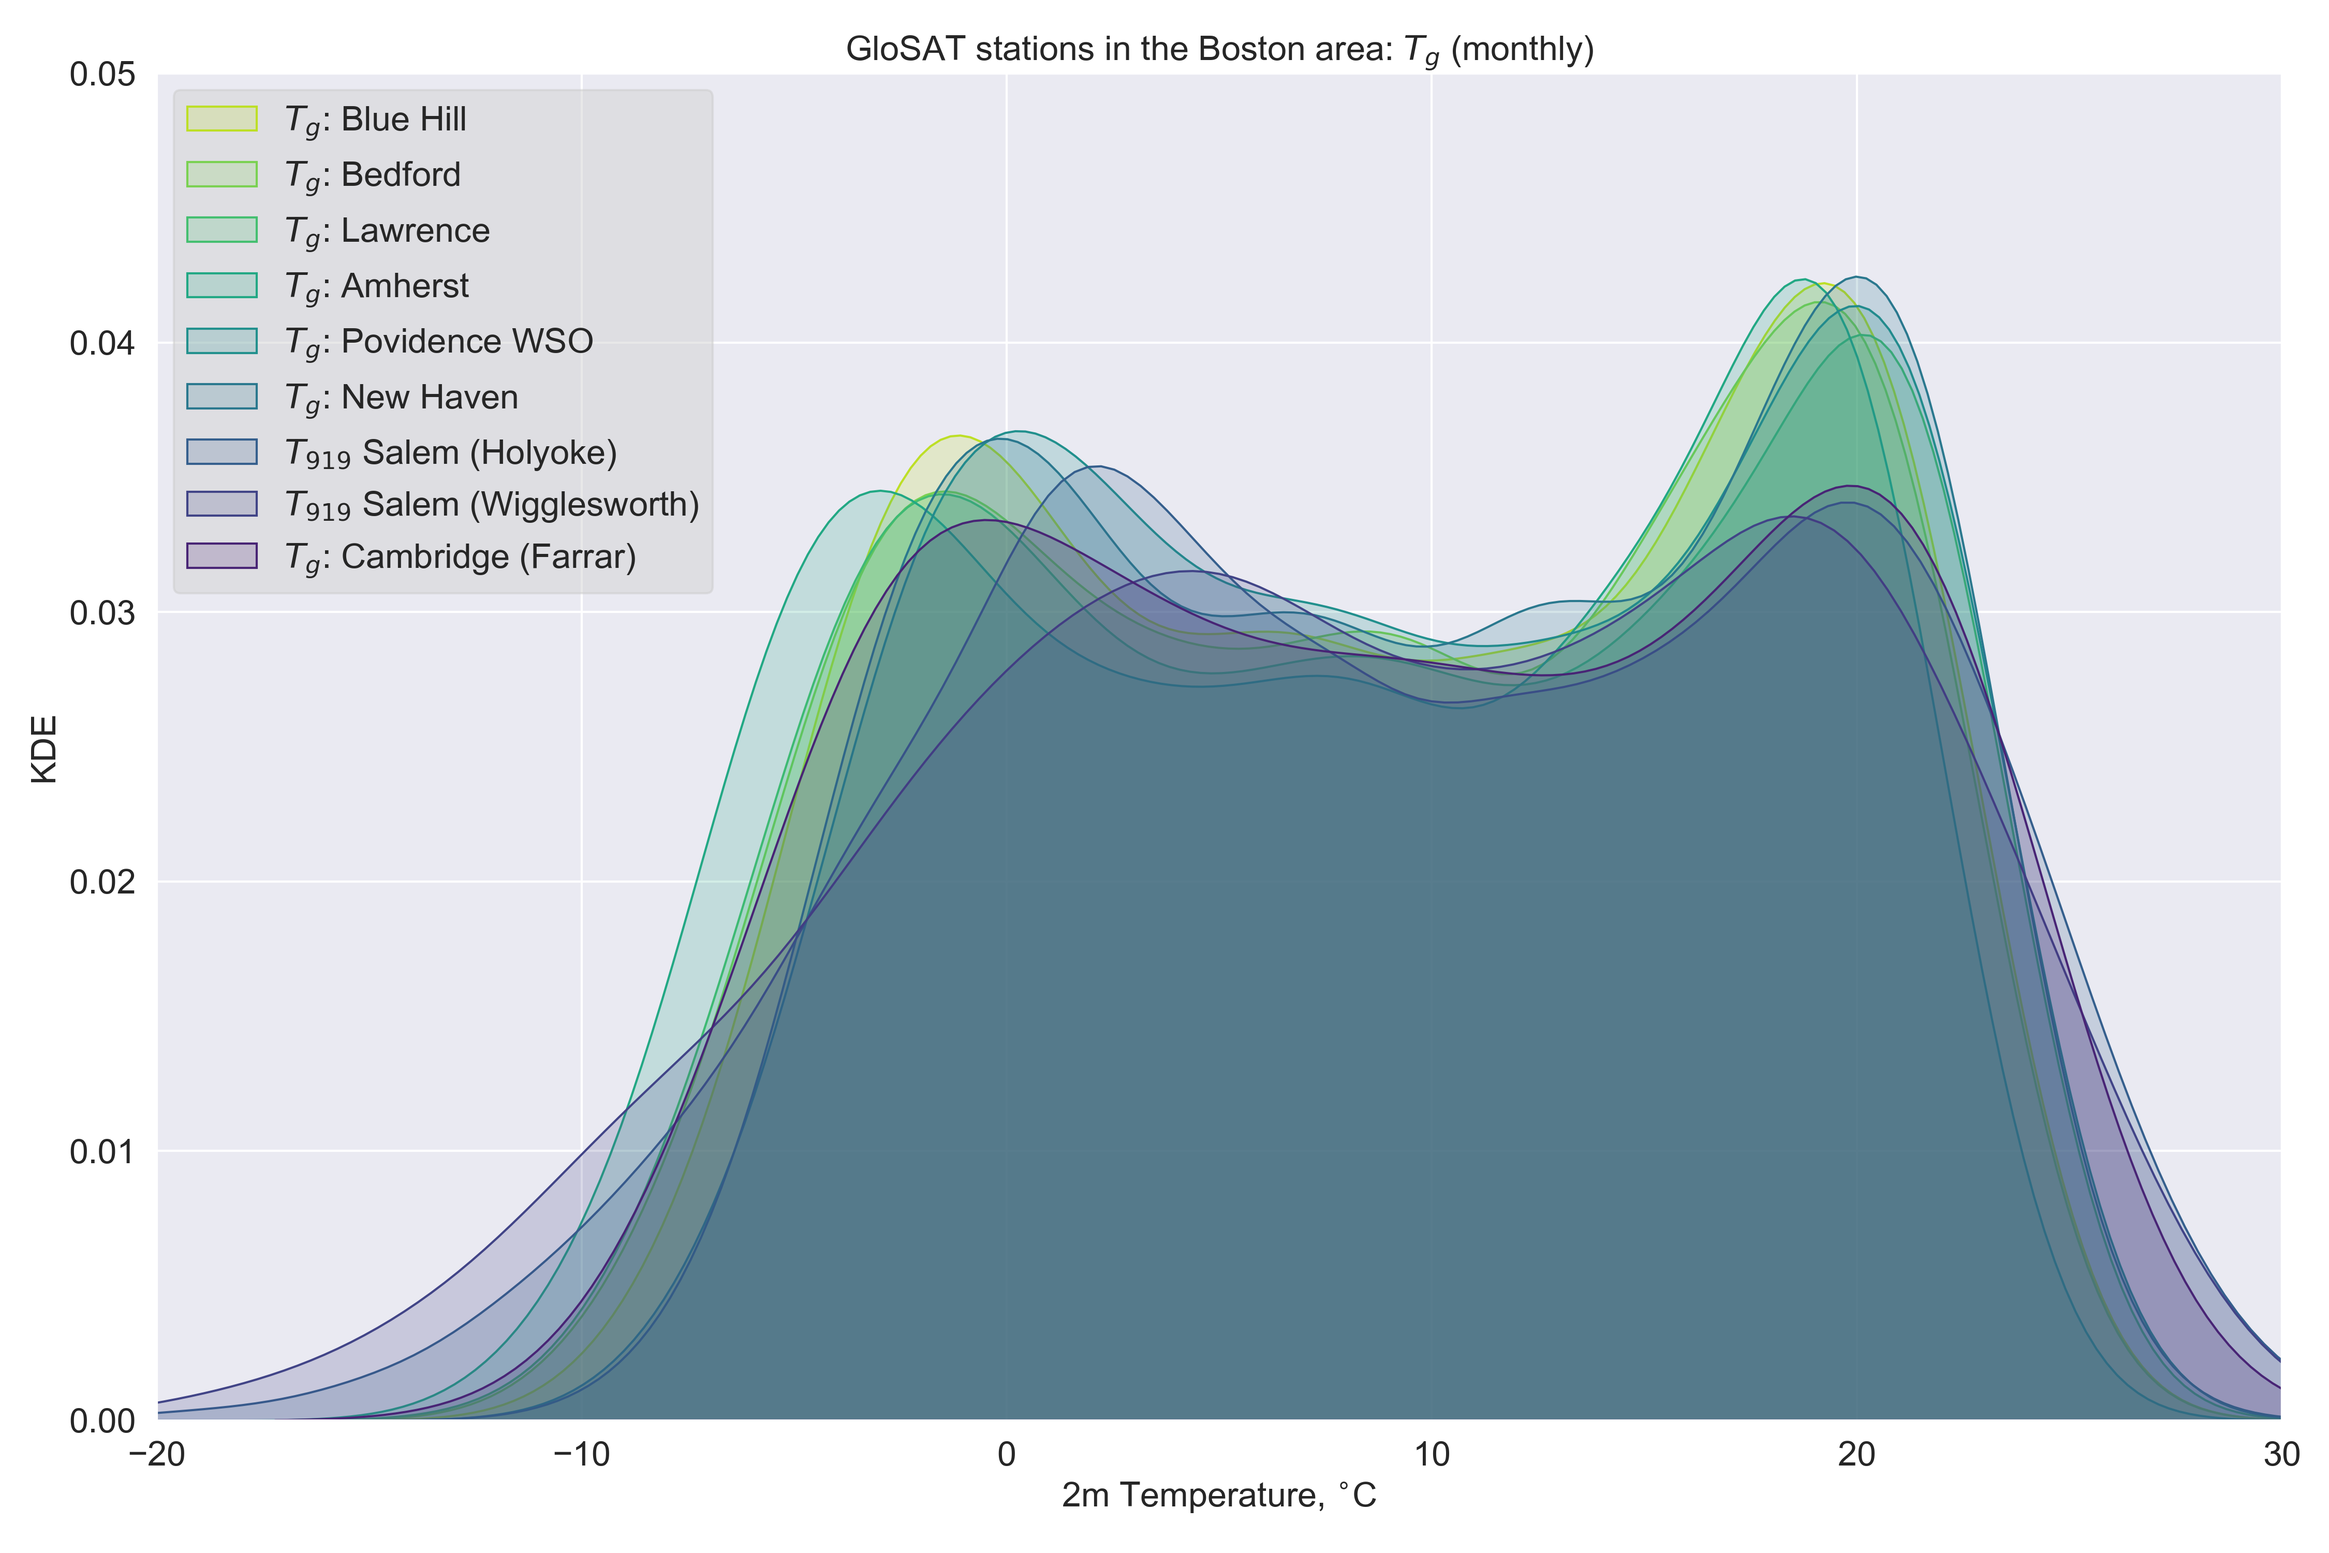
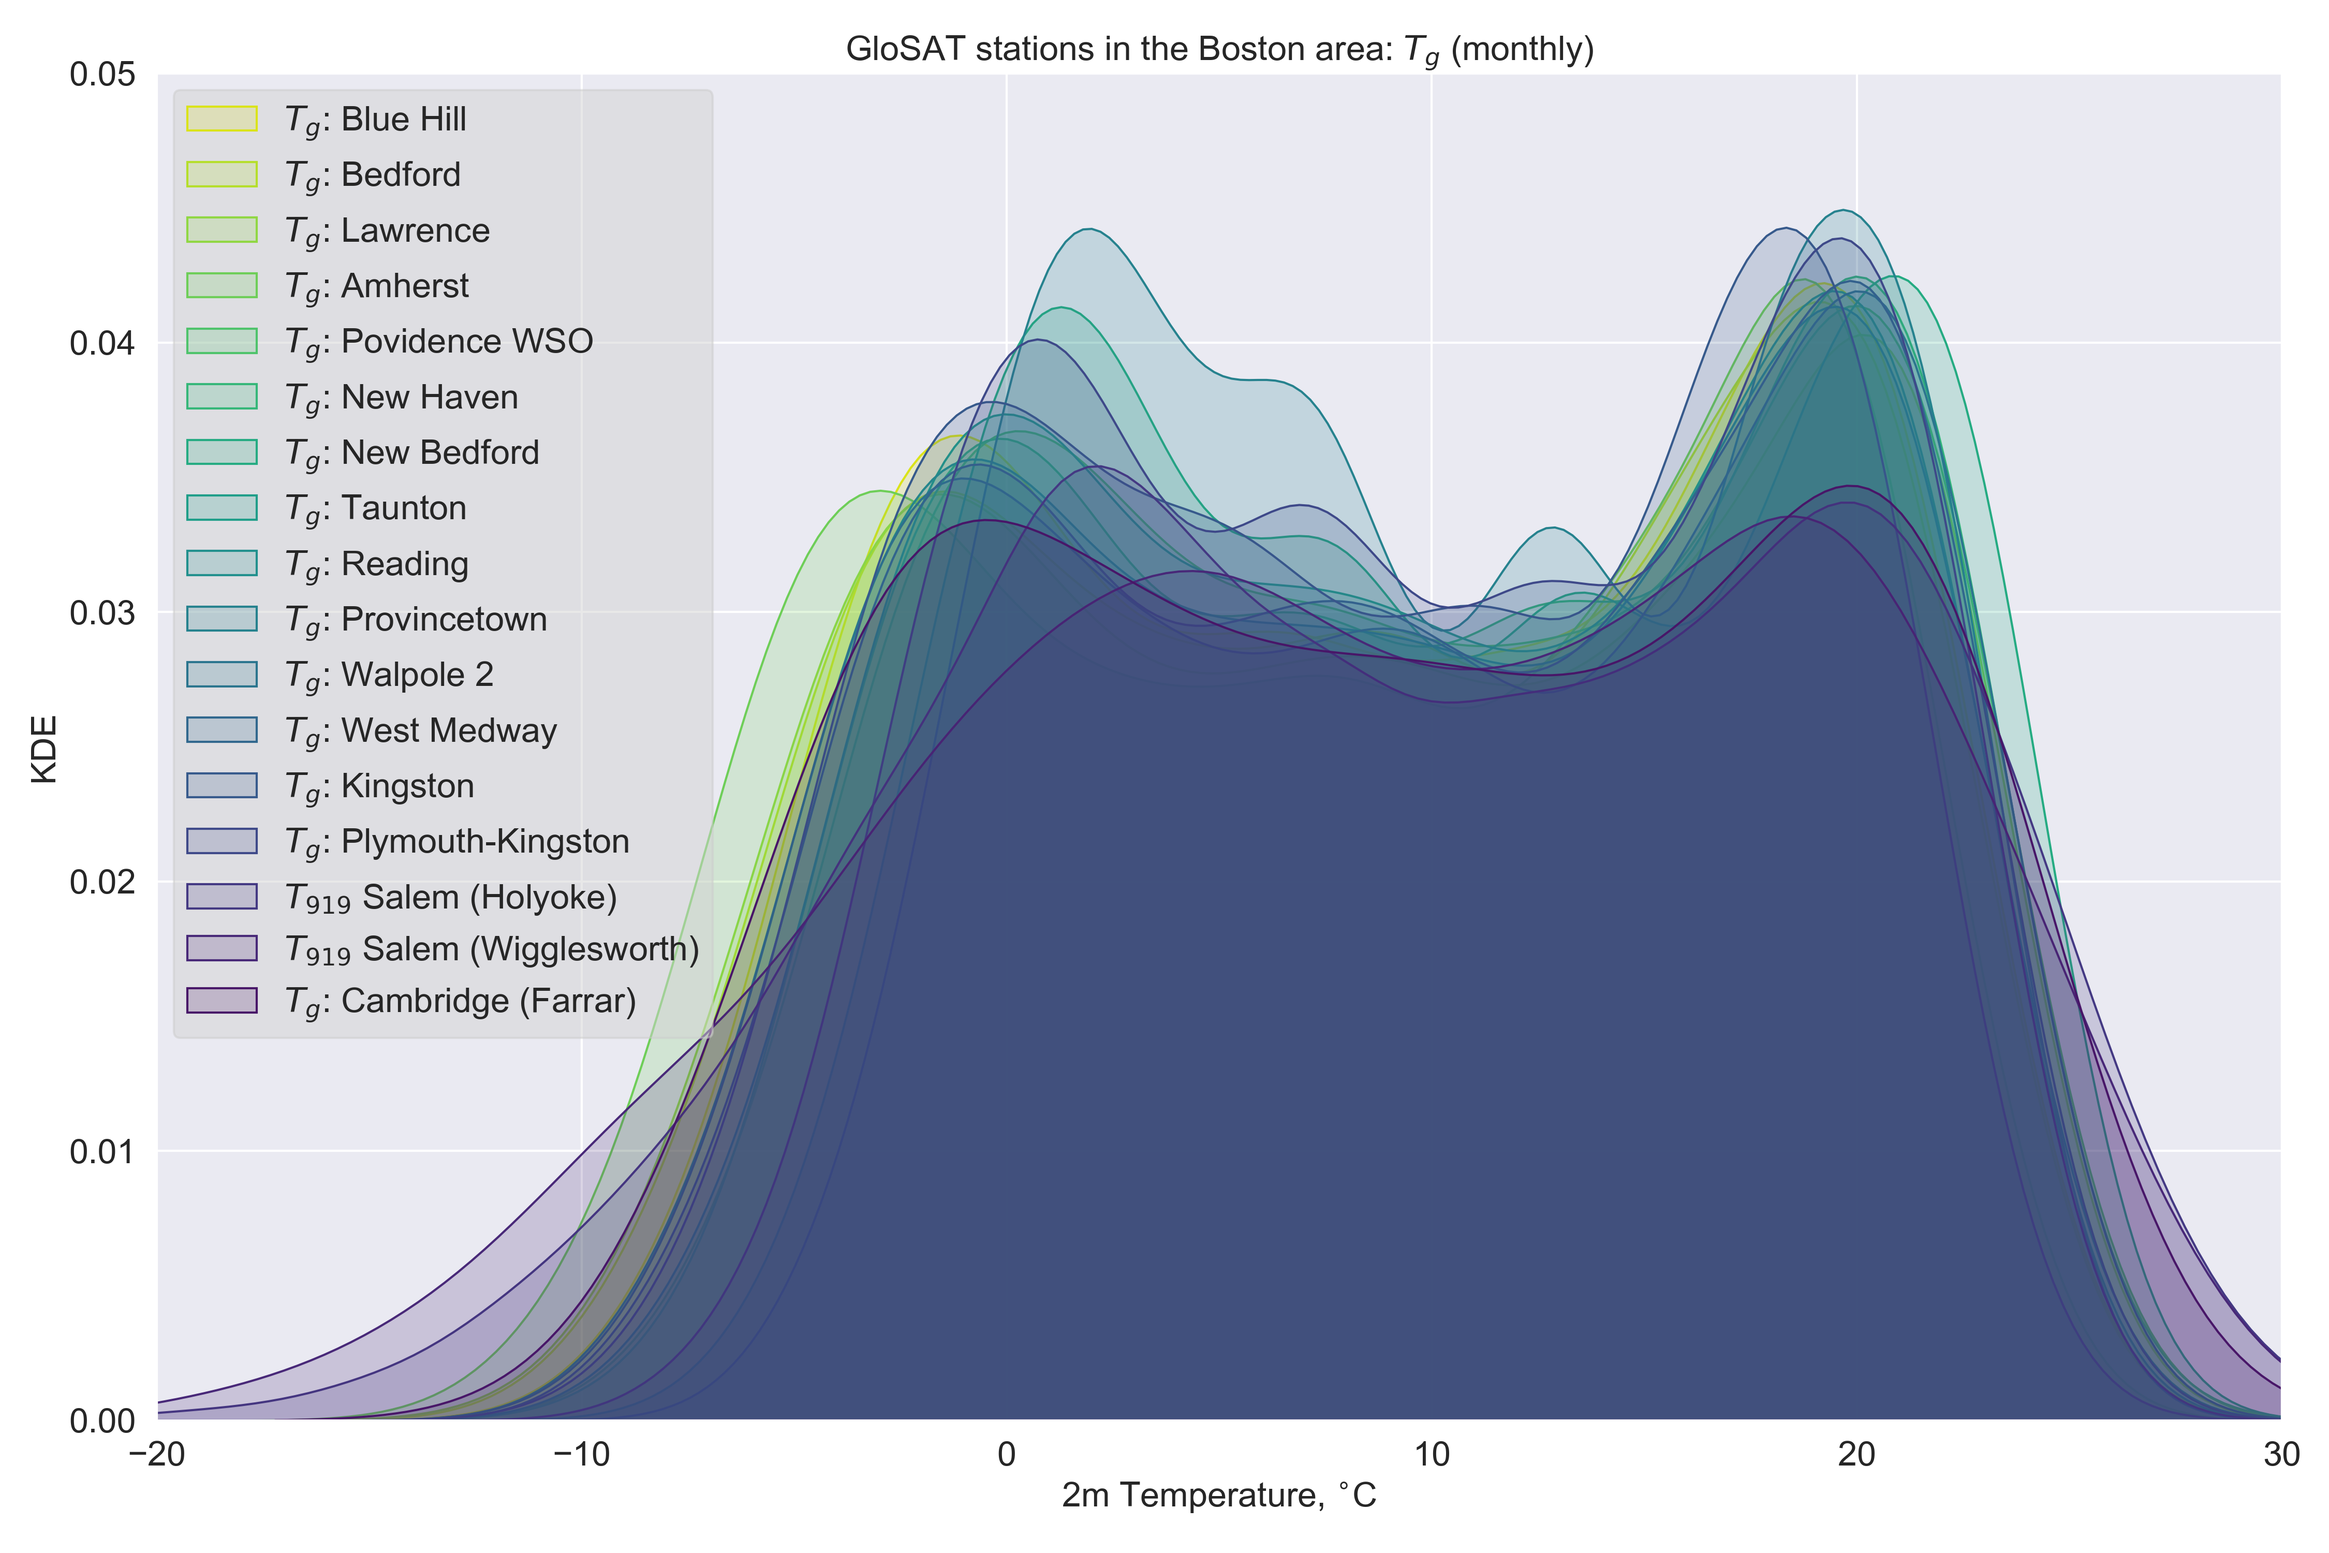
Added all GloSAT stations within 100km lasso of BHO

diff --git a/load-new-england-datasets.py b/load-new-england-datasets.py
@@ -160,6 +160,15 @@ if load_glosat == True:
     stationcode_providence_wso = '725070'
     stationcode_new_haven = '725045'
     
+    stationcode_new_bedford = '720223'
+    stationcode_taunton = '720225'
+    stationcode_reading = '725090'
+    stationcode_provincetown = '725091'
+    stationcode_walpole_2 = '744900'
+    stationcode_west_medway = '744902'
+    stationcode_kingston = '753011'
+    stationcode_plymouth_kingston = '756213'
+
 #   da_salem_cgar = df_temp.columns                                                      # USC00197124	SALEM COAST GUARD AIR STATION, MA US 1948-1967
 #   da_salem_b = df_temp.columns                                                         # USC00197122	SALEM B, MA US 1885-1909
 #   da_boston = df_temp.columns                                                          # USW00014739	BOSTON, MA US 1936-2021
@@ -172,6 +181,15 @@ if load_glosat == True:
     da_providence_wso = df_temp[df_temp['stationcode']==stationcode_providence_wso]      # USC00376712	PROVIDENCE 2, RI US 1893-1913
 #   da_worcester = df_temp.columns                                                       # USC00199928	WORCESTER, MA US 1892-1962
     da_new_haven = df_temp[df_temp['stationcode']==stationcode_new_haven]                                                       # USC00199928	WORCESTER, MA US 1892-1962
+
+    da_new_bedford = df_temp[df_temp['stationcode']==stationcode_new_bedford]                                                       # USC00199928	WORCESTER, MA US 1892-1962
+    da_taunton = df_temp[df_temp['stationcode']==stationcode_taunton]                                                       # USC00199928	WORCESTER, MA US 1892-1962
+    da_reading = df_temp[df_temp['stationcode']==stationcode_reading]                                                       # USC00199928	WORCESTER, MA US 1892-1962
+    da_provincetown = df_temp[df_temp['stationcode']==stationcode_provincetown]                                                       # USC00199928	WORCESTER, MA US 1892-1962
+    da_walpole_2 = df_temp[df_temp['stationcode']==stationcode_walpole_2]                                                       # USC00199928	WORCESTER, MA US 1892-1962
+    da_west_medway = df_temp[df_temp['stationcode']==stationcode_west_medway]                                                       # USC00199928	WORCESTER, MA US 1892-1962
+    da_kingston = df_temp[df_temp['stationcode']==stationcode_kingston]                                                       # USC00199928	WORCESTER, MA US 1892-1962
+    da_plymouth_kingston = df_temp[df_temp['stationcode']==stationcode_plymouth_kingston]                                                       # USC00199928	WORCESTER, MA US 1892-1962
 
     ts = np.array(da_blue_hill.groupby('year').mean().iloc[:,0:12]).ravel()
     t = pd.date_range(start=str(da_blue_hill.year.iloc[0]), periods=len(ts), freq='MS')
@@ -191,6 +209,31 @@ if load_glosat == True:
     ts = np.array(da_new_haven.groupby('year').mean().iloc[:,0:12]).ravel()
     t = pd.date_range(start=str(da_new_haven.year.iloc[0]), periods=len(ts), freq='MS')
     df_new_haven = pd.DataFrame({'new_haven':ts}, index=t) 
+    
+    ts = np.array(da_new_bedford.groupby('year').mean().iloc[:,0:12]).ravel()
+    t = pd.date_range(start=str(da_new_bedford.year.iloc[0]), periods=len(ts), freq='MS')
+    df_new_bedford = pd.DataFrame({'new_bedford':ts}, index=t) 
+    ts = np.array(da_taunton.groupby('year').mean().iloc[:,0:12]).ravel()
+    t = pd.date_range(start=str(da_taunton.year.iloc[0]), periods=len(ts), freq='MS')
+    df_taunton = pd.DataFrame({'taunton':ts}, index=t) 
+    ts = np.array(da_reading.groupby('year').mean().iloc[:,0:12]).ravel()
+    t = pd.date_range(start=str(da_reading.year.iloc[0]), periods=len(ts), freq='MS')
+    df_reading = pd.DataFrame({'reading':ts}, index=t) 
+    ts = np.array(da_provincetown.groupby('year').mean().iloc[:,0:12]).ravel()
+    t = pd.date_range(start=str(da_provincetown.year.iloc[0]), periods=len(ts), freq='MS')
+    df_provincetown = pd.DataFrame({'provincetown':ts}, index=t) 
+    ts = np.array(da_walpole_2.groupby('year').mean().iloc[:,0:12]).ravel()
+    t = pd.date_range(start=str(da_walpole_2.year.iloc[0]), periods=len(ts), freq='MS')
+    df_walpole_2 = pd.DataFrame({'walpole_2':ts}, index=t) 
+    ts = np.array(da_west_medway.groupby('year').mean().iloc[:,0:12]).ravel()
+    t = pd.date_range(start=str(da_west_medway.year.iloc[0]), periods=len(ts), freq='MS')
+    df_west_medway = pd.DataFrame({'west_medway':ts}, index=t) 
+    ts = np.array(da_kingston.groupby('year').mean().iloc[:,0:12]).ravel()
+    t = pd.date_range(start=str(da_kingston.year.iloc[0]), periods=len(ts), freq='MS')
+    df_kingston = pd.DataFrame({'kingston':ts}, index=t) 
+    ts = np.array(da_plymouth_kingston.groupby('year').mean().iloc[:,0:12]).ravel()
+    t = pd.date_range(start=str(da_plymouth_kingston.year.iloc[0]), periods=len(ts), freq='MS')
+    df_plymouth_kingston = pd.DataFrame({'plymouth_kingston':ts}, index=t)     
     
 #==============================================================================
             
@@ -1255,7 +1298,7 @@ plt.close('all')
 
 # PLOT: Neighbouring stations in the Boston area: GloSAT (monthly) timeseries
 
-sequential_colors = sns.color_palette(color_palette, 9)
+sequential_colors = sns.color_palette(color_palette, 17)
 sns.set_palette(sequential_colors)
 
 figstr = 'glosat-tg(monthly)-timeseries.png'
@@ -1268,6 +1311,16 @@ sns.lineplot(x=df_lawrence.index, y=df_lawrence['lawrence'], marker='.', alpha=0
 sns.lineplot(x=df_amherst.index, y=df_amherst['amherst'], marker='.', alpha=0.5, legend=False)
 sns.lineplot(x=df_providence_wso.index, y=df_providence_wso['providence_wso'], marker='.', alpha=0.5, legend=False)
 sns.lineplot(x=df_new_haven.index, y=df_new_haven['new_haven'], marker='.', alpha=0.5, legend=False)
+
+sns.lineplot(x=df_new_bedford.index, y=df_new_bedford['new_bedford'], marker='.', alpha=0.5, legend=False)
+sns.lineplot(x=df_taunton.index, y=df_taunton['taunton'], marker='.', alpha=0.5, legend=False)
+sns.lineplot(x=df_reading.index, y=df_reading['reading'], marker='.', alpha=0.5, legend=False)
+sns.lineplot(x=df_provincetown.index, y=df_provincetown['provincetown'], marker='.', alpha=0.5, legend=False)
+sns.lineplot(x=df_walpole_2.index, y=df_walpole_2['walpole_2'], marker='.', alpha=0.5, legend=False)
+sns.lineplot(x=df_west_medway.index, y=df_west_medway['west_medway'], marker='.', alpha=0.5, legend=False)
+sns.lineplot(x=df_kingston.index, y=df_kingston['kingston'], marker='.', alpha=0.5, legend=False)
+sns.lineplot(x=df_plymouth_kingston.index, y=df_plymouth_kingston['plymouth_kingston'], marker='.', alpha=0.5, legend=False)
+
 sns.lineplot(x=df_holyoke.dropna().rolling(31,center=True).mean().index, y=pd.Series((df_holyoke['T(08:00)']+df_holyoke['T(13:00)']+df_holyoke['T(22:00)']+df_holyoke['T(sunset)'])/4.).dropna().rolling(31,center=True).mean(), marker='.', alpha=0.5, legend=True, label=r'$T_{919}$ 2yr MA: Salem (Holyoke)')
 sns.lineplot(x=df_wigglesworth.dropna().rolling(31,center=True).mean().index, y=pd.Series((df_wigglesworth['T(08:00)']+df_wigglesworth['T(13:00)']+df_wigglesworth['T(21:00)'])/3.).dropna().rolling(31,center=True).mean(), marker='.', alpha=0.5, legend=True, label=r'$T_{919}$ 2yr MA: Salem (Wigglesworth)')
 sns.lineplot(x=df_farrar.index, y=df_farrar['Tmean'], marker='.', alpha=0.5, legend=True, label=r'$T_{g}$: Cambridge (Farrar)')
@@ -1278,6 +1331,16 @@ sns.lineplot(x=df_lawrence.index, y=(pd.Series(df_lawrence['lawrence']).rolling(
 sns.lineplot(x=df_amherst.index, y=(pd.Series(df_amherst['amherst']).rolling(24,center=True).mean()).ewm(span=24, adjust=False).mean(), ls='-', lw=3, legend=True,  label=r'$T_{g}$ 2yr MA: Amherst')
 sns.lineplot(x=df_providence_wso.index, y=(pd.Series(df_providence_wso['providence_wso']).rolling(24,center=True).mean()).ewm(span=24, adjust=False).mean(), ls='-', lw=3, legend=True, label=r'$T_{g}$ 2yr MA: Povidence WSO')
 sns.lineplot(x=df_new_haven.index, y=(pd.Series(df_new_haven['new_haven']).rolling(24,center=True).mean()).ewm(span=24, adjust=False).mean(), ls='-', lw=3, legend=True, label=r'$T_{g}$ 2yr MA: New Haven')
+
+sns.lineplot(x=df_new_bedford.index, y=(pd.Series(df_new_bedford['new_bedford']).rolling(24,center=True).mean()).ewm(span=24, adjust=False).mean(), ls='-', lw=3, legend=True, label=r'$T_{g}$ 2yr MA: New Bedford')
+sns.lineplot(x=df_taunton.index, y=(pd.Series(df_taunton['taunton']).rolling(24,center=True).mean()).ewm(span=24, adjust=False).mean(), ls='-', lw=3, legend=True, label=r'$T_{g}$ 2yr MA: Taunton')
+sns.lineplot(x=df_reading.index, y=(pd.Series(df_reading['reading']).rolling(24,center=True).mean()).ewm(span=24, adjust=False).mean(), ls='-', lw=3, legend=True, label=r'$T_{g}$ 2yr MA: Reading')
+sns.lineplot(x=df_provincetown.index, y=(pd.Series(df_provincetown['provincetown']).rolling(24,center=True).mean()).ewm(span=24, adjust=False).mean(), ls='-', lw=3, legend=True, label=r'$T_{g}$ 2yr MA: Provincetown')
+sns.lineplot(x=df_walpole_2.index, y=(pd.Series(df_walpole_2['walpole_2']).rolling(24,center=True).mean()).ewm(span=24, adjust=False).mean(), ls='-', lw=3, legend=True, label=r'$T_{g}$ 2yr MA: Walpole 2')
+sns.lineplot(x=df_west_medway.index, y=(pd.Series(df_west_medway['west_medway']).rolling(24,center=True).mean()).ewm(span=24, adjust=False).mean(), ls='-', lw=3, legend=True, label=r'$T_{g}$ 2yr MA: West Medway')
+sns.lineplot(x=df_kingston.index, y=(pd.Series(df_kingston['kingston']).rolling(24,center=True).mean()).ewm(span=24, adjust=False).mean(), ls='-', lw=3, legend=True, label=r'$T_{g}$ 2yr MA: Kingston')
+sns.lineplot(x=df_plymouth_kingston.index, y=(pd.Series(df_plymouth_kingston['plymouth_kingston']).rolling(24,center=True).mean()).ewm(span=24, adjust=False).mean(), ls='-', lw=3, legend=True, label=r'$T_{g}$ 2yr MA: Plymouth-Kingston')
+
 #sns.lineplot(x=df_holyoke.dropna().rolling((31*24),center=True).mean().index, y=(pd.Series((df_holyoke['T(08:00)']+df_holyoke['T(13:00)']+df_holyoke['T(22:00)']+df_holyoke['T(sunset)'])/4.).dropna().rolling((31*24),center=True).mean()), ls='-', lw=3, legend=True, label=r'$T_{919}$ 2yr MA: Salem (Holyoke)')
 #sns.lineplot(x=df_wigglesworth.dropna().rolling((31*24),center=True).mean().index, y=(pd.Series((df_wigglesworth['T(08:00)']+df_wigglesworth['T(13:00)']+df_wigglesworth['T(21:00)'])/3.).dropna().rolling((31*24),center=True).mean()).ewm(span=(31*24), adjust=False).mean(), ls='-', lw=3, legend=True, label=r'$T_{919}$ 2yr MA: Salem (Wigglesworth)')
 #sns.lineplot(x=df_farrar.index, y=(pd.Series(df_farrar['Tmean']).rolling(24,center=True).mean()).ewm(span=24, adjust=False).mean(), ls='-', lw=3, legend=True, label=r'$T_{g}$: Cambridge (Farrar)')
@@ -1293,7 +1356,7 @@ plt.close('all')
 
 # PLOT: Neighbouring stations in the Boston area: GloSAT (monthly) KDE distributions
 
-sequential_colors = sns.color_palette(color_palette, 9)
+sequential_colors = sns.color_palette(color_palette, 17)
 sns.set_palette(sequential_colors)
 
 df_holyoke_919 = (df_holyoke['T(08:00)']+df_holyoke['T(13:00)']+df_holyoke['T(22:00)']+df_holyoke['T(sunset)'])/4.0
@@ -1310,6 +1373,16 @@ sns.kdeplot(df_lawrence['lawrence'], shade=True, alpha=0.2, legend=True, **kwarg
 sns.kdeplot(df_amherst['amherst'], shade=True, alpha=0.2, legend=True, **kwargs, label=r'$T_{g}$: Amherst')
 sns.kdeplot(df_providence_wso['providence_wso'], shade=True, alpha=0.2, legend=True, **kwargs, label=r'$T_{g}$: Povidence WSO')
 sns.kdeplot(df_new_haven['new_haven'], shade=True, alpha=0.2, legend=True, **kwargs, label=r'$T_{g}$: New Haven')
+
+sns.kdeplot(df_new_bedford['new_bedford'], shade=True, alpha=0.2, legend=True, **kwargs, label=r'$T_{g}$: New Bedford')
+sns.kdeplot(df_taunton['taunton'], shade=True, alpha=0.2, legend=True, **kwargs, label=r'$T_{g}$: Taunton')
+sns.kdeplot(df_reading['reading'], shade=True, alpha=0.2, legend=True, **kwargs, label=r'$T_{g}$: Reading')
+sns.kdeplot(df_provincetown['provincetown'], shade=True, alpha=0.2, legend=True, **kwargs, label=r'$T_{g}$: Provincetown')
+sns.kdeplot(df_walpole_2['walpole_2'], shade=True, alpha=0.2, legend=True, **kwargs, label=r'$T_{g}$: Walpole 2')
+sns.kdeplot(df_west_medway['west_medway'], shade=True, alpha=0.2, legend=True, **kwargs, label=r'$T_{g}$: West Medway')
+sns.kdeplot(df_kingston['kingston'], shade=True, alpha=0.2, legend=True, **kwargs, label=r'$T_{g}$: Kingston')
+sns.kdeplot(df_plymouth_kingston['plymouth_kingston'], shade=True, alpha=0.2, legend=True, **kwargs, label=r'$T_{g}$: Plymouth-Kingston')
+
 sns.kdeplot(df_holyoke_919, shade=True, alpha=0.2, legend=True, **kwargs, label=r'$T_{919}$ Salem (Holyoke)')
 sns.kdeplot(df_wigglesworth_919, shade=True, alpha=0.2, legend=True, **kwargs, label=r'$T_{919}$ Salem (Wigglesworth)')
 sns.kdeplot(df_farrar['Tmean'], shade=True, alpha=0.2, legend=True, **kwargs, label=r'$T_{g}$: Cambridge (Farrar)')
